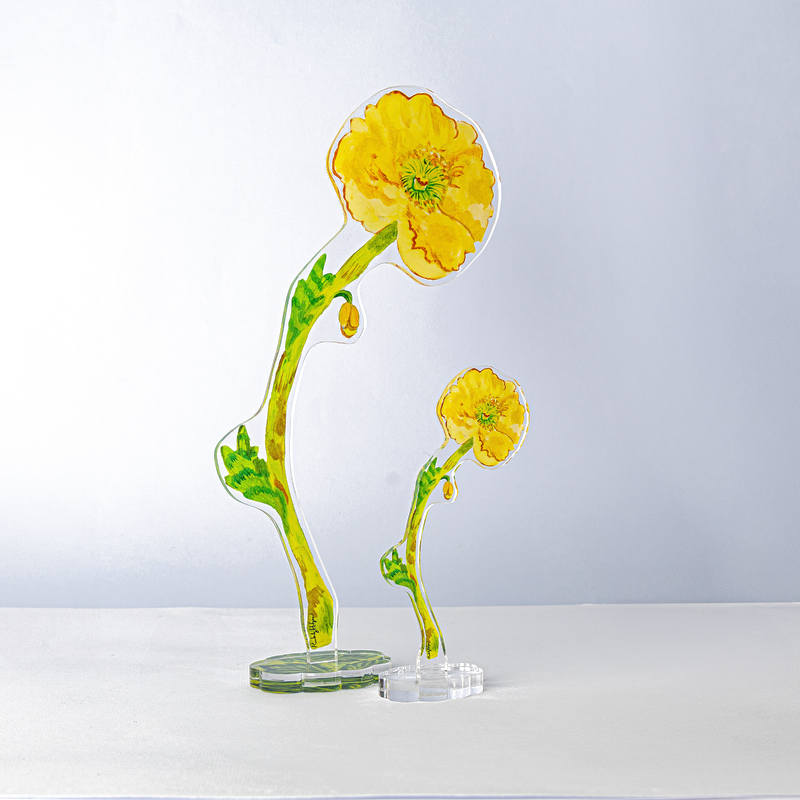
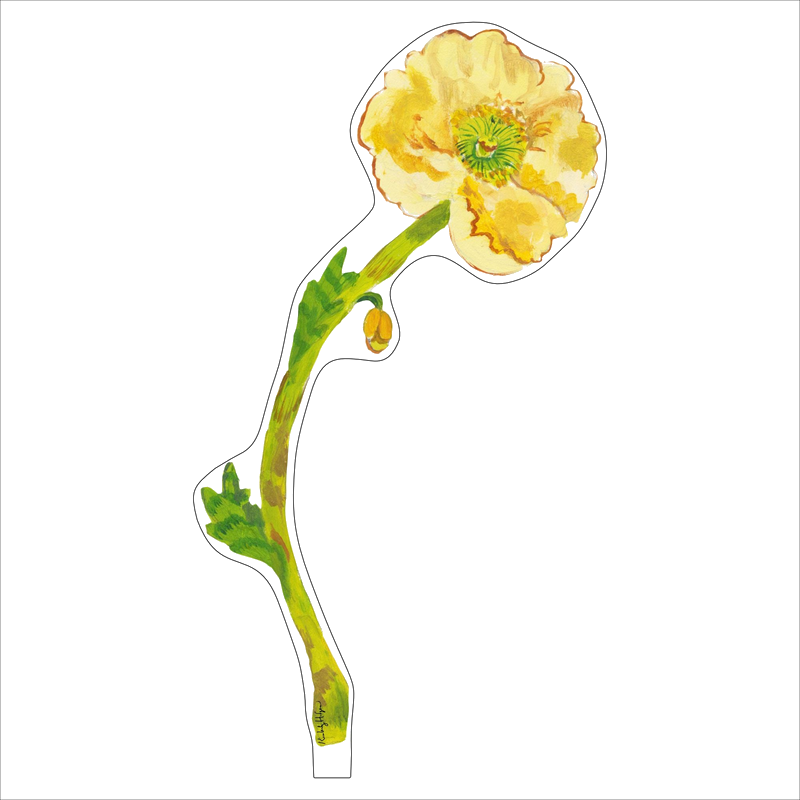
Fix 26 flower images using wrong source photos
16 flowers were processed from thumbnail/product photos (showing
flowers on stands, with backgrounds) instead of clean cutouts. 10
additional flowers from the catalog were missing from the processing
script entirely.

Fixed by updating process-images.mjs to use the correct UUID-suffixed
cutout URLs from catalog.ts for all 47 flowers. Removed 8 orphaned
PNGs from flowers no longer in the catalog.

Also documented image rules in DEVELOPMENT.md to prevent this from
happening again.

Made-with: Cursor

diff --git a/DEVELOPMENT.md b/DEVELOPMENT.md
@@ -118,6 +118,21 @@ The `useCart` hook:
 | Single LG: stand + 1 LG | $23.85 + $37.35 = $61.20 |
 | Single SM: stand + 1 SM | $19.35 + $19.35 = $38.70 |
 
+## Image Rules (IMPORTANT)
+
+**Always use the clean single-flower cutout image** — the UUID-suffixed URL from Shopify CDN. Never use:
+- Thumbnail/product photos (flower shown on a stand)
+- Pair photos (LG + SM shown together)
+- Dimension-annotated images (with ruler markings)
+- Lifestyle photos (flower in a room setting)
+
+The correct URL pattern: `Flower_Name_UUID.jpg` (e.g., `Red_Iceland_Poppy_SM_KHA-141_f57c4930-...jpg`)
+The wrong URL pattern: `Flower_Name.jpg` or `FlowerName-SmallAcrylicSingleFlower-KHA-054.jpg`
+
+The `cutout` field in `catalog.ts` is the source of truth. Keep `process-images.mjs` in sync with it.
+
+To verify: open a flower PNG in `public/flowers/` — it should show a single flower on transparent background, no stand, no background artifacts, no measurement markings.
+
 ## Image Processing Pipeline
 
 ### Step 1: Download from Shopify CDN
@@ -159,11 +174,27 @@ This preserves light-colored petals that a global threshold would remove.
 
 ## Responsive Scaling
 
-The canvas component measures its own height and computes a scale factor:
+The canvas component measures height and viewport width to compute a scale factor:
 ```
-scale = min((availableHeight * 0.85) / maxFlowerHeight, 1.8)
+desktop: scale = min((available * 0.82) / maxFlowerHeight, 3.5)
+mobile:  scale = min((available * 0.95) / maxFlowerHeight, 3.5)
 ```
-All flower heights, widths, and base widths are multiplied by this scale. This ensures the arrangement fills the canvas proportionally on any screen size.
+
+Slot widths are viewport-responsive (using `window.innerWidth`, not canvas element width):
+- Desktop (>768px): LG=160px, SM=96px
+- Mobile (≤768px): LG=120px, SM=72px
+
+### Z-Index Layers (within arrangement-group)
+| z-index | Element | Purpose |
+|---------|---------|---------|
+| 1 | LG (back) flower slot | Behind front flowers |
+| 2 | SM (front) flower slots | In front of LG, creates depth |
+| 5 | Stand base bar | Covers flower stems (plugged-in look) |
+| 6 | Empty slot "+" buttons | Always visible above stand |
+| 10 | Selected flower slot | Pops above everything for interaction |
+| 20 | Remove (X) button | Always on top within selected slot |
+
+A `::after` mask on the stand-base (z-index 4) hides any flower content below the stand.
 
 ## Deployment
 
